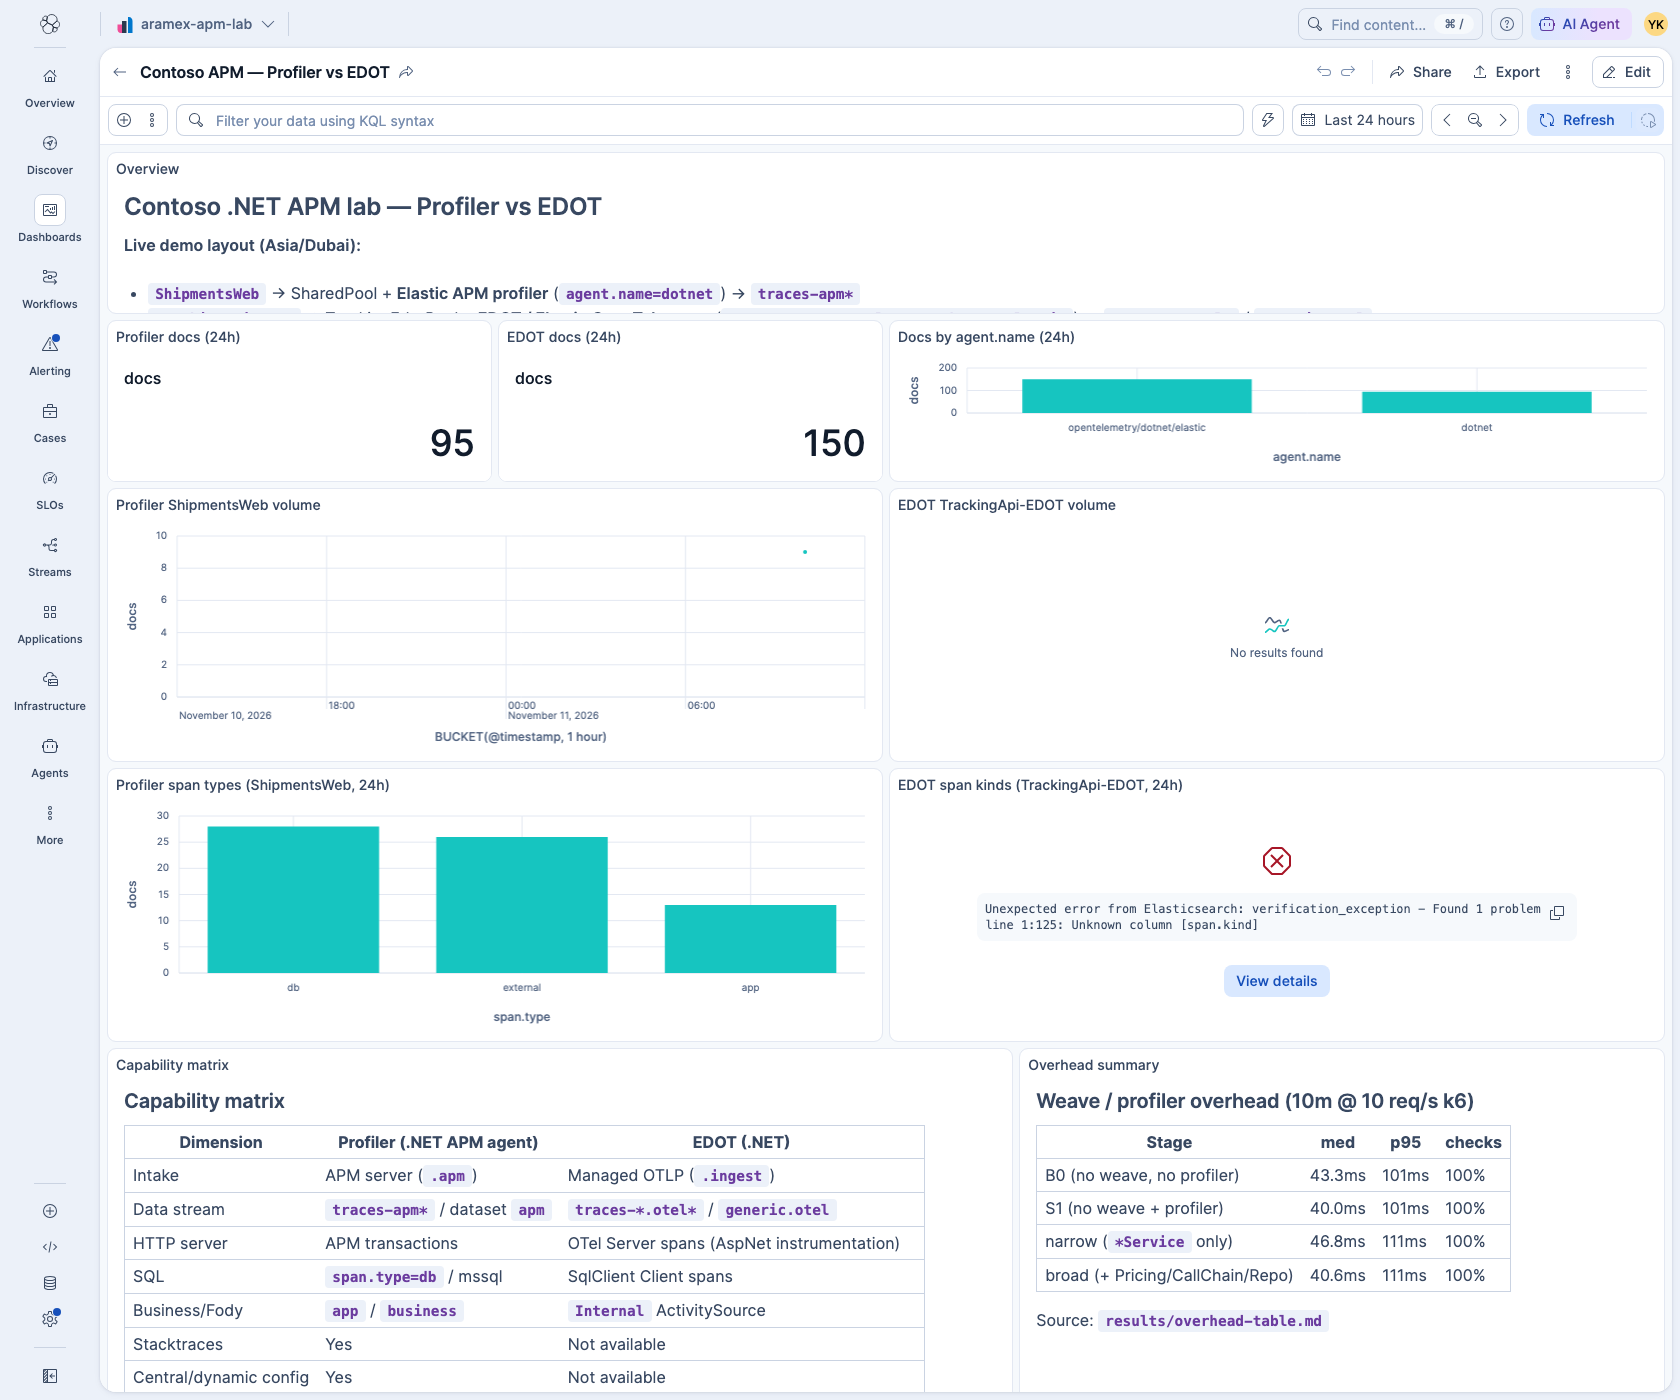
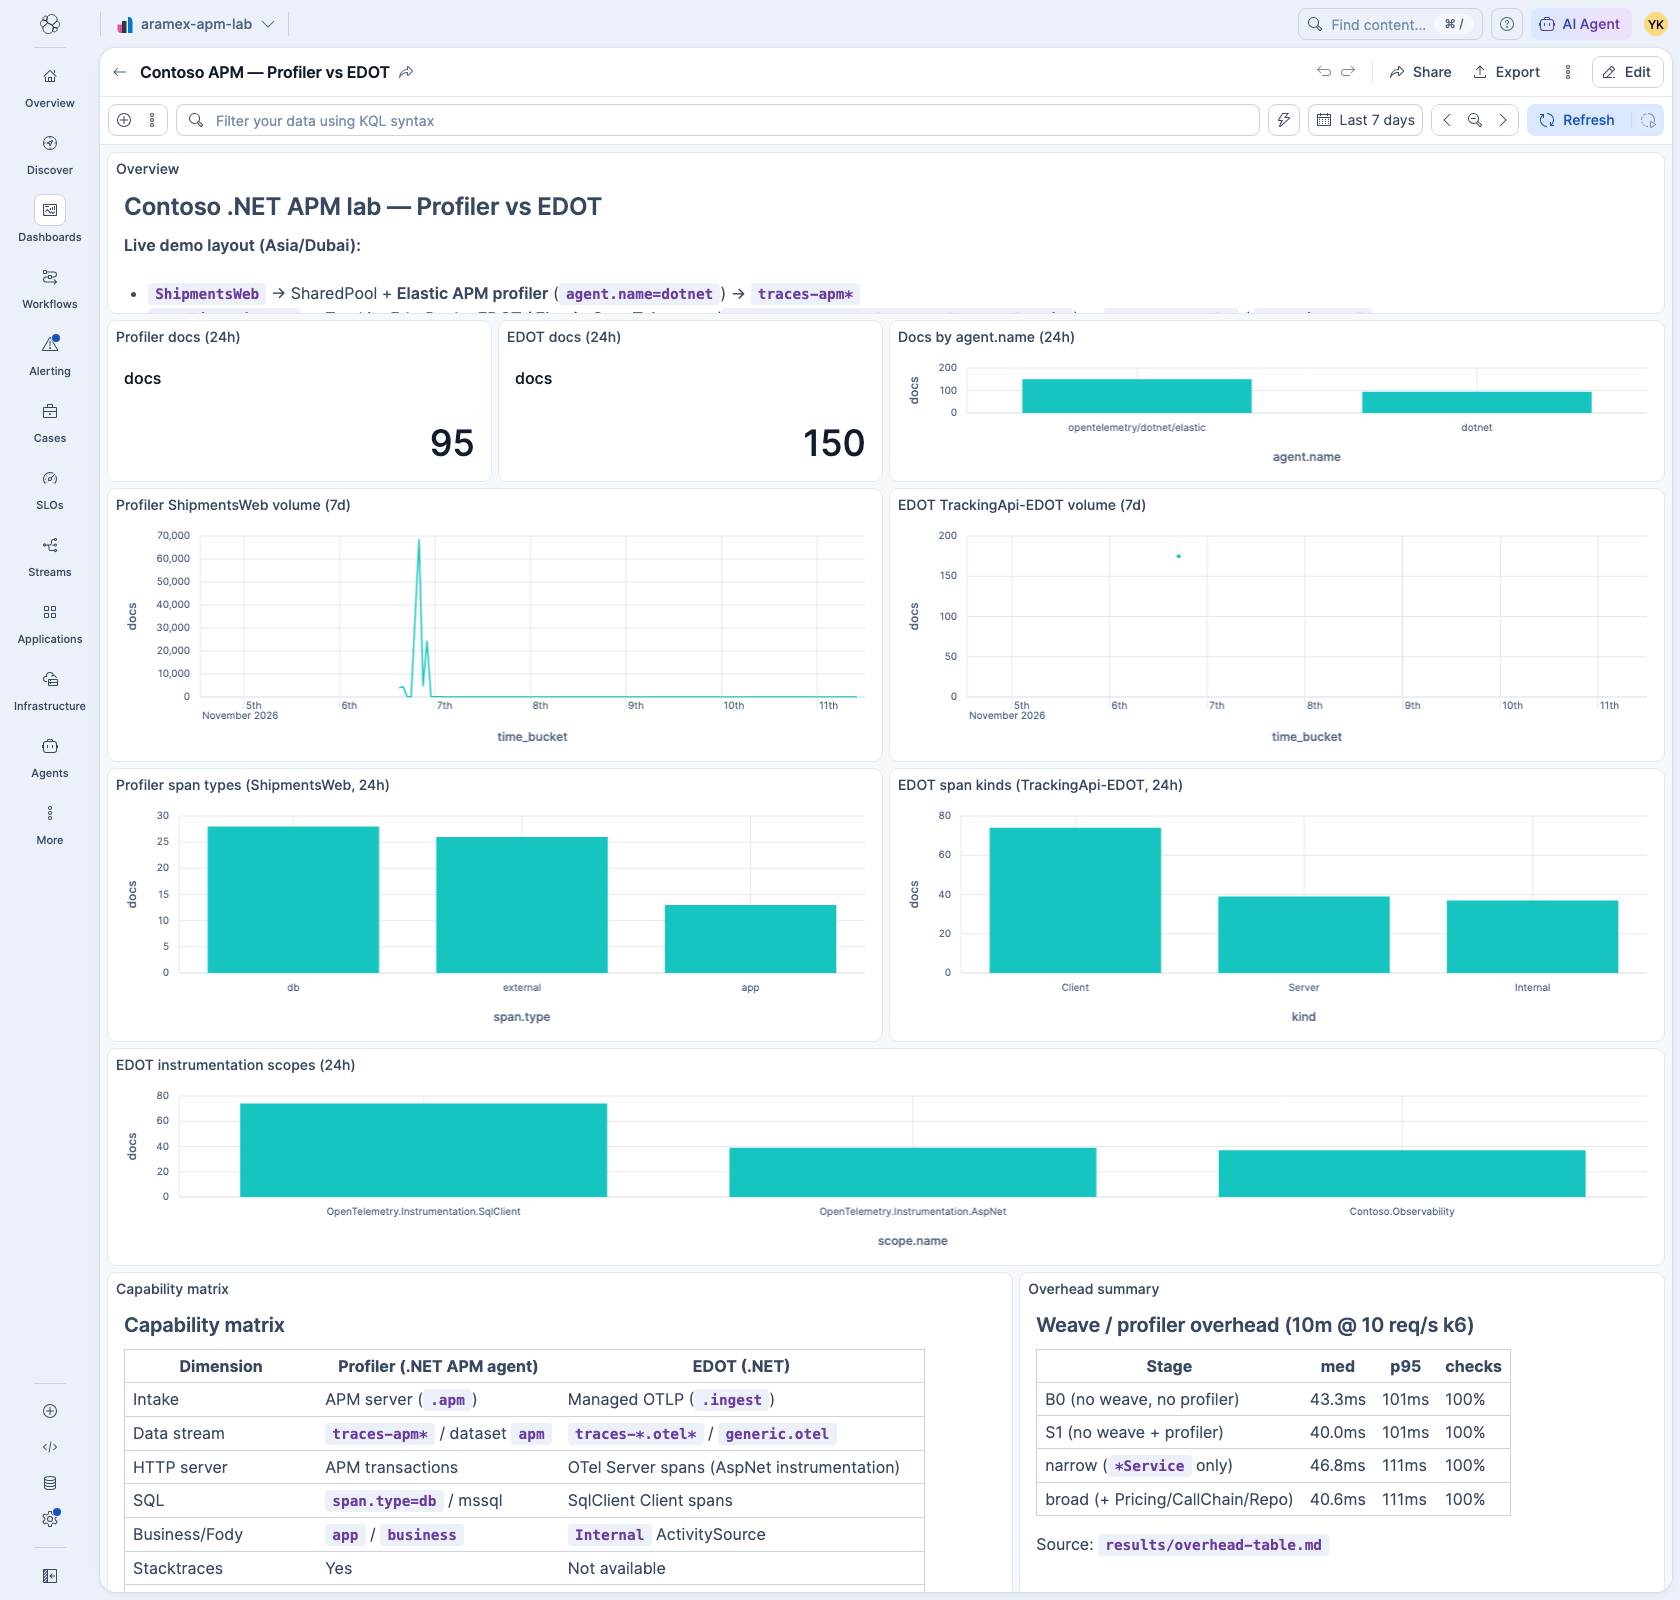
Fix EDOT dashboard panels for OTel field names
Use kind/scope.name and aliased time buckets so EDOT charts render
on traces-*.otel* alongside profiler metrics.

diff --git a/results/s5-edot-comparison-dashboard.md b/results/s5-edot-comparison-dashboard.md
@@ -5,6 +5,8 @@
 - **Definition (recreate):** `kibana/contoso-profiler-vs-edot-dashboard.json`
 - **Screenshot:** `screenshots/14-profiler-vs-edot-dashboard.png`
 
+Panels use ES|QL against `traces-apm*` and `traces-*.otel*` (EDOT uses root field `kind` / `scope.name`, not APM `span.*`).
+
 ## Live binding for demo
 
 `/tracking` is on **TrackingEdotPool** (`TrackingApi-EDOT`) so the EDOT panels have live data. `/web` stays on SharedPool profiler (`ShipmentsWeb`).
